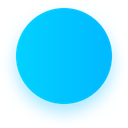
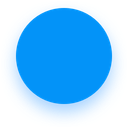
修改蓝色主题颜色

diff --git a/src/views/Index.vue b/src/views/Index.vue
@@ -41,7 +41,7 @@
           <div>
             <x-circle :percent="percent"
                       :stroke-width="5"
-                      stroke-color="#01D0FF">
+                      stroke-color="#FF4359">
               <span class="circle-bg circle-win">胜</span>
             </x-circle>
             {{ percent }}%
@@ -49,7 +49,7 @@
           <div>
             <x-circle :percent="percent"
                       :stroke-width="5"
-                      stroke-color="#34548E">
+                      stroke-color="#6DC21D">
               <span class="circle-bg circle-lose">让负</span>
             </x-circle>
             {{ percent }}%
@@ -60,7 +60,7 @@
           <div>
             <x-circle :percent="percent"
                       :stroke-width="5"
-                      stroke-color="#34548E">
+                      stroke-color="#6DC21D">
               <span class="circle-bg circle-lose">负</span>
             </x-circle>
             {{ percent }}%
@@ -68,12 +68,12 @@
           <div>
             <x-circle :percent="percent"
                       :stroke-width="5"
-                      stroke-color="#01D0FF">
+                      stroke-color="#FF4359">
               <span class="circle-bg circle-win">让胜</span>
             </x-circle>
             {{ percent }}%
           </div>
-          <p class="result-badge result-badge-red">+1</p>
+          <p class="result-badge">+1</p>
         </div>
       </div>
       <h3 class="index-title">真实赔率与竞彩赔率对比<img src="../../public/images/index-question.png" /></h3>
@@ -267,7 +267,7 @@ export default {
           display: inline-block;
           width: 3px;
           height: 12px;
-          background: #01d0ff;
+          background: #0393F8;
           border-radius: 2px;
           margin: 0 3px;
         }
@@ -381,10 +381,10 @@ export default {
               line-height: 40px;
             }
             .circle-win {
-              background: #01d0ff;
+              background: #FF4359;
             }
             .circle-lose {
-              background: #34548e;
+              background: #6DC21D;
             }
           }
         }
@@ -398,7 +398,7 @@ export default {
           text-align: center;
           font-size: 12px;
           line-height: 18px;
-          background: #70d23e;
+          background: #0393F8;
           color: #ffffff;
         }
         .result-badge-red {
@@ -416,7 +416,7 @@ export default {
       height: 36px;
       background: rgba(255, 255, 255, 1);
       border-radius: 18px;
-      color: #01d0ff;
+      color: #0393F8;
       font-size: 14px;
       text-align: center;
       line-height: 36px;
@@ -472,7 +472,7 @@ export default {
 .tr-style {
   width: 100%;
   height: 26px;
-  background: rgba(1, 208, 255, 1);
+  background: #0393F8;
   border-radius: 6px 6px 0px 0px;
   font-size: 12px;
   color: #fff;

diff --git a/src/views/UGC.vue b/src/views/UGC.vue
@@ -3,7 +3,7 @@
     <h1>UGC</h1>
     <tab :line-width=2
          custom-bar-width='16'
-         active-color='#01D0FF'
+         active-color='#0393F8'
          v-model="index"
          :scroll-threshold="6">
       <tab-item class="vux-center"
@@ -69,10 +69,11 @@
         </tbody>
       </x-table>
     </div>
-    <div class="ugc-set"
-         @click="IssueOrder">发单</div>
     <img src="../../public/images/ugc-top.png"
          class="ugc-top" />
+    <div class="ugc-set"
+         @click="IssueOrder">发单</div>
+    
   </div>
 </template>
 
@@ -193,7 +194,7 @@ export default {
         height: 36px;
         background: #ffffff;
         border-radius: 18px;
-        color: #01d0ff;
+        color: #0393F8;
         font-size: 14px;
         text-align: center;
         line-height: 36px;
@@ -220,7 +221,7 @@ export default {
     background: url('../../public/images/ugc-set.png') no-repeat 100% 100%/100%
       100%;
     position: fixed;
-    bottom: 122px;
+    bottom: 58px;
     right: 16px;
     color: #fff;
     font-size: 16px;
@@ -230,7 +231,7 @@ export default {
   .ugc-top {
     width: 64px;
     position: fixed;
-    bottom: 58px;
+    bottom: 122px;
     right: 16px;
   }
 }

diff --git a/src/views/UgcInfo.vue b/src/views/UgcInfo.vue
@@ -103,7 +103,7 @@ components: {
         height: 18px;
         font-size: 12px;
         padding-left: 18px;
-        color: #01d0ff;
+        color: #0393F8;
         background: url('../../public/images/ugc-info-badge.png') no-repeat 100%
           100%/100% 100%;
       }
@@ -146,11 +146,7 @@ components: {
         &:nth-child(3) {
           width: 68px;
           height: 36px;
-          background: linear-gradient(
-            90deg,
-            rgba(1, 208, 255, 1) 0%,
-            rgba(1, 186, 255, 1) 100%
-          );
+          background: #0393F8;
           color: #ffffff;
           line-height: 36px;
           text-align: center;
@@ -190,11 +186,7 @@ components: {
     float: left;
     width: 68px;
     height: 66px;
-    background: linear-gradient(
-      90deg,
-      rgba(1, 208, 255, 1) 0%,
-      rgba(1, 186, 255, 1) 100%
-    );
+    background:#0393F8;
     color: #ffffff;
     padding-top: 18px;
     text-align: center;

diff --git a/src/views/IssueOrder.vue b/src/views/IssueOrder.vue
@@ -182,7 +182,7 @@ export default {
         }
         .demo1-item-selected {
           color: #ffffff;
-          background: #01d0ff;
+          background: #0393F8;
         }
       }
     }
@@ -199,7 +199,7 @@ export default {
       font-size: 18px;
       font-family: PingFangSC-Regular;
       font-weight: 400;
-      color: rgba(38, 215, 255, 1);
+      color: #0393F8;
       margin-left: 16px;
       margin-top: 25px;
     }
@@ -209,11 +209,7 @@ export default {
       margin-top: 15px;
       width: 187px;
       height: 44px;
-      background: linear-gradient(
-        90deg,
-        rgba(1, 208, 255, 1) 0%,
-        rgba(1, 186, 255, 1) 100%
-      );
+      background:#0393F8;
       border-radius: 24px;
       font-size: 20px;
       line-height: 44px;

diff --git a/src/views/SetOrder.vue b/src/views/SetOrder.vue
@@ -188,7 +188,7 @@ export default {
         }
         .demo1-item-selected {
           color: #ffffff;
-          background: #01d0ff;
+          background: #0393F8;
         }
       }
     }
@@ -221,11 +221,7 @@ export default {
       margin-top: 70px;
       width: 187px;
       height: 44px;
-      background: linear-gradient(
-        90deg,
-        rgba(1, 208, 255, 1) 0%,
-        rgba(1, 186, 255, 1) 100%
-      );
+      background: #0393F8;
       border-radius: 24px;
       font-size: 20px;
       line-height: 44px;
@@ -274,7 +270,7 @@ export default {
   .weui-cells_checkbox
   .weui-check:checked
   + .weui-icon-checked:before {
-  color: #26d7ff;
+  color: #0393F8;
   content: '\EA08';
 }
 .set-order .weui-cells_checkbox .weui-icon-checked:before {

diff --git a/src/views/Home.vue b/src/views/Home.vue
@@ -82,7 +82,7 @@ export default {
 .weui-tabbar__item.weui-bar__item_on .weui-tabbar__icon,
 .weui-tabbar__item.weui-bar__item_on .weui-tabbar__icon > i,
 .weui-tabbar__item.weui-bar__item_on .weui-tabbar__label {
-  color: #01d0ff !important;
+  color: #0393F8 !important;
 }
 </style>
 
